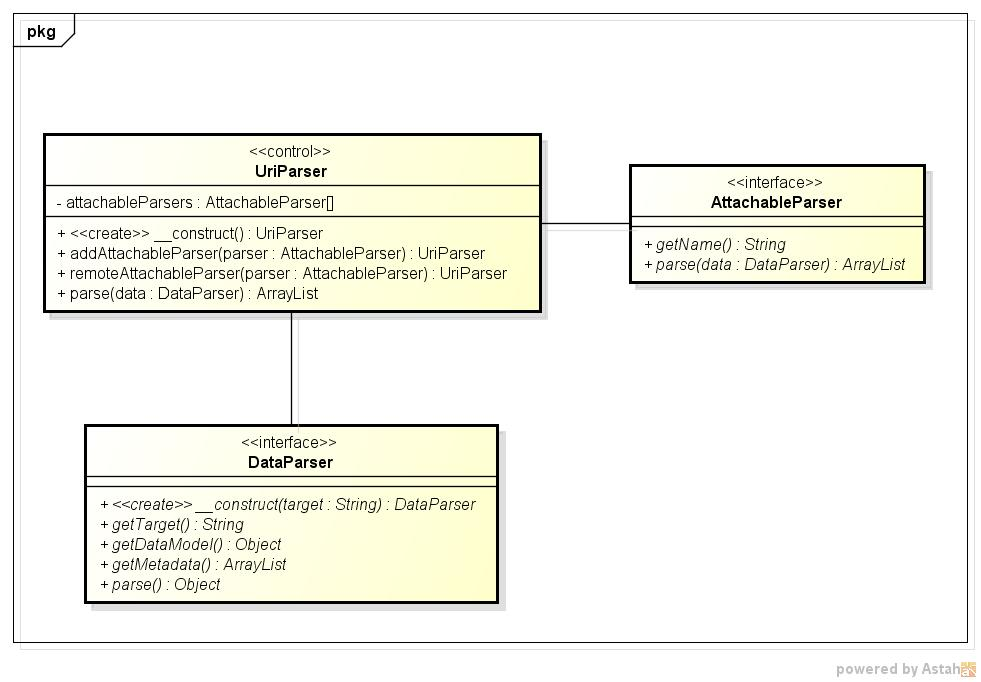
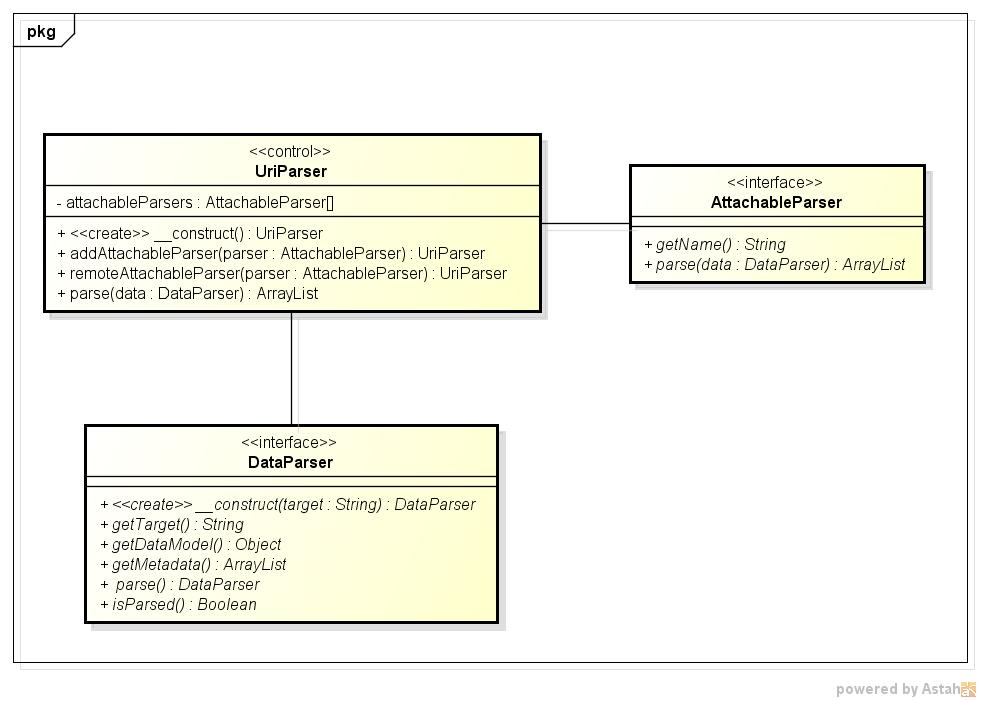
Further details on the basic package structure - Added the DataParser.isParsed() method - Changed the return type of the DataParser.parse() method - Created the first version of the UriParser class - Some small adjustments on blank spaces - Added comments the DataParser members

diff --git a/app/UriParser.php b/app/UriParser.php
@@ -1,0 +1,72 @@
+<?php namespace \App;
+
+use \App\Interfaces\AttachableParser;
+use \App\Interfaces\DataParser;
+
+    /**
+     *  This class implements, through IoC and Interface Segregation principles,
+     *  a highly configurable parser that allows the extraction of a wide range
+     *  of information from content.
+     *
+     **/
+    class UriParser
+    {
+        /**
+         *  Retains a list of attachable parsers, that are executed each time
+         *  the parsing process is called.
+         */
+        private $attachableParsers = [];
+        
+        /**
+         *  The base constructor of the class.
+         *
+         *  @returns void
+         **/
+        public function __construct(){}
+        
+        /**
+         *  Adds an attachable parser to the list of this instance of the class.
+         *
+         *  @returns UriParser the instance reference itself.
+         **/
+        public function addAttachableParser(AttachableParser $parser)
+        {
+            if(!is_null($parser) && !in_array($parser, $this->attachableParsers, true))
+                $this->attachableParsers[] = $parser;
+            return $this;
+        }
+        
+        /**
+         *  Removes an attachable parser from the list of this instance of the class.
+         *
+         *  @returns UriParser the instance reference itself.
+         **/
+        public function removeAttachableParser(AttachableParser $parser)
+        {
+            if(!is_null($parser) && ($pos = array_search($parser, $this->attachableParsers, true)) !== false)
+                array_splice($this->attachableParsers, $pos, 1);
+            return $this;
+        }
+        
+        
+        /**
+         *  Parses the data from a DataParser entry, using the attached parsers
+         *  bind to the instance.
+         *
+         *  @returns array() a hash of keys and values, split for each AttachableParser
+         **/
+        public function parse(DataParser $parser)
+        {
+            $returnData = array();
+            if(!is_null($returnData))
+            {
+                foreach($this->attachableParsers as $attachableParser)
+                {
+                    if(!isset($returnData[$attachableParser->getName()]))
+                        $returnData[$attachableParser->getName()] = array();
+                    $returnData[$attachableParser->getName()] = array_merge($returnData[$attachableParser->getName()], $attachableParser->parse($parser));
+                }
+            }
+            return $returnData;
+        }
+    }

diff --git a/app/Interfaces/DataParser.php b/app/Interfaces/DataParser.php
@@ -1,5 +1,4 @@
-<?php
-    namespace \App\Interfaces;
+<?php namespace \App\Interfaces;
 /**
  *  This interface defines the basic exposed functionality for
  *  data parsers, software artifacts that receives an URI and
@@ -9,9 +8,51 @@
  **/
     interface DataParser
     {
+        /**
+         *  Initializes the object and defines it's target parseable
+         *  data.
+         *
+         *  @returns void
+         */
         public function __construct($target);
+        
+        /**
+         *  Returns the current target content of this parser.
+         *
+         *  @returns string the URI the object points to.
+         */
         public function getTarget();
+        
+        /**
+         *  Returns the data model object that encapsulates
+         *  the data retrieved by this object.
+         *
+         *  @return DOMDocument a object that exposes the data model or NULL if no object is exposable yet.
+         */
         public function getDataModel();
+        
+        /**
+         *  Returns an array containing all the metadata related
+         *  to the data model. Useful for exposing headers and other
+         *  info received from a remote source, when applicable.
+         *
+         *  @return array() a hash containing key-value pairs of each metadata entry
+         */
         public function getMetaData();
+        
+        /**
+         *  Reads and transforms the data pointed by the object.
+         *
+         *  @returns DataParser a reference for the own object.
+         */
         public function parse();
+        
+        /**
+         *  A getter method that allows the implementing class to inform
+         *  to an outside called if it's parsing logic has already been
+         *  executed on the object instance.
+         *
+         *  @returns boolean true if the data has already been parsed, false otherwise.
+         */
+        public function isParsed();
     }

diff --git a/app/Interfaces/AttachableParser.php b/app/Interfaces/AttachableParser.php
@@ -1,5 +1,4 @@
-<?php
-    namespace \App\Interfaces;
+<?php namespace \App\Interfaces;
 /**
  *  This interface defines the basic exposed functionality for
  *  any parsing-capable class that wants to interact with this
